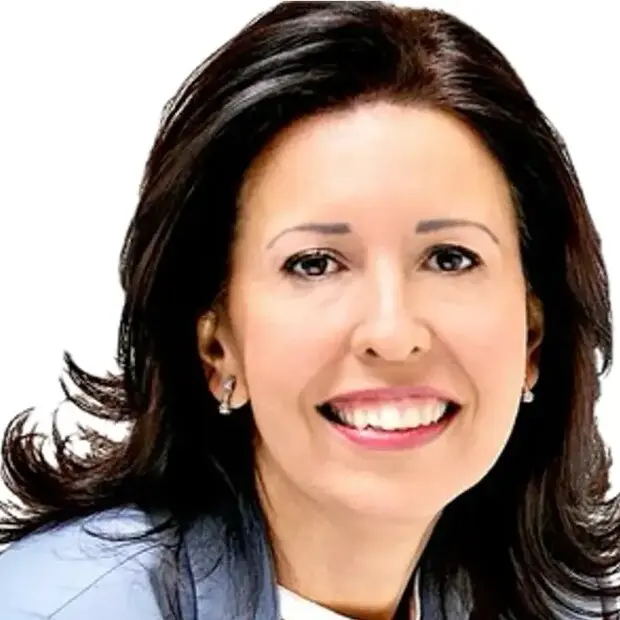
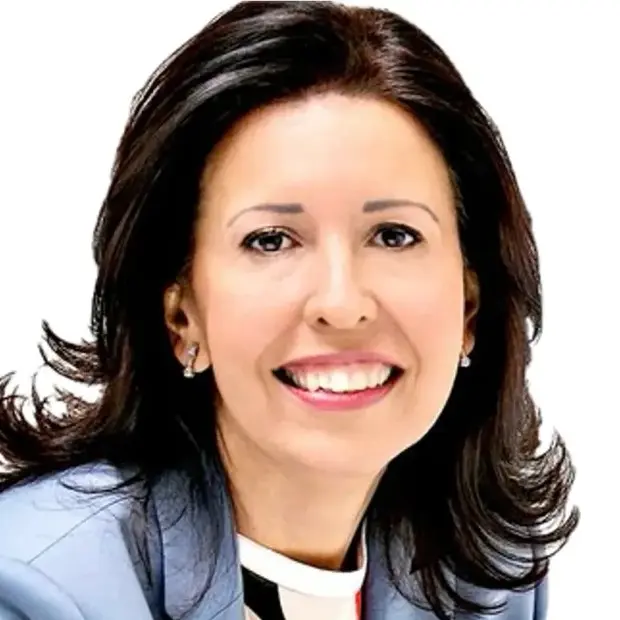
Retratos centrados en la cara y correccion sobre Carlos J. Martinez
Los recortes se centraban en la silueta completa, no en la cabeza: cuando
la chaqueta o el hombro se extendian mas hacia un lado, la cara quedaba
descolocada. Se hacia evidente en el retrato de Jon Yerro. Ahora el centro
horizontal se calcula sobre la banda superior de la imagen, donde esta la
cabeza, y los seis quedan alineados entre si.

Correccion de contenido: Carlos J. Martinez NO dirige el Reactor de
Innovacion. Su credencial pasa a decir que es socio fundador de Hadrone y
de MSB Ltd. El error venia tambien en su biografia, que estaba publicada
desde antes, y se ha corregido alli.

Claude-Session: https://claude.ai/code/session_014iBwyWVVe4S2ErEZXNuF3e

diff --git a/index.html b/index.html
@@ -914,11 +914,11 @@ section[id],.srv-fam[id]{scroll-margin-top:84px}
           <span class="l-foto"><img src="assets/img/red-carlos.webp" alt="Retrato de Carlos J. Martínez" width="620" height="620" loading="lazy" decoding="async"></span>
           <span>
             <span class="l-n">Carlos J. Martínez</span>
-            <span class="l-r">Asesoramiento tecnológico y de negocio · Dirige el Reactor de Innovación en la Universidad de Navarra</span>
+            <span class="l-r">Socio fundador de Hadrone y de MSB Ltd. · Asesoramiento tecnológico y de negocio</span>
           </span>
           <span class="l-mas" aria-hidden="true"></span>
         </button>
-        <div class="l-bio" id="bio-carlos"><div><p>Socio fundador de Hadrone (2003) y de MSB Ltd., consultora con sede en el Reino Unido. Trayectoria en Europa y Oriente Medio en asesoramiento tecnológico y de negocio, con experiencia en industria aeroespacial, energía y centros de I+D+i. Profesor visitante en la UPNA y la Universidad de Navarra, donde dirige el Reactor de Innovación.</p></div></div>
+        <div class="l-bio" id="bio-carlos"><div><p>Socio fundador de Hadrone (2003) y de MSB Ltd., consultora con sede en el Reino Unido. Trayectoria en Europa y Oriente Medio en asesoramiento tecnológico y de negocio, con experiencia en industria aeroespacial, energía y centros de I+D+i. Profesor visitante en la UPNA y en la Universidad de Navarra.</p></div></div>
       </li>
       <li id="red-jon">
         <button class="l-head" type="button" aria-expanded="false" aria-controls="bio-jon">
